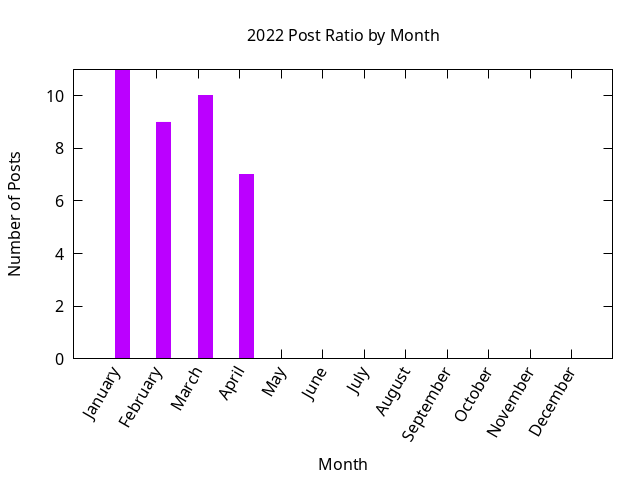
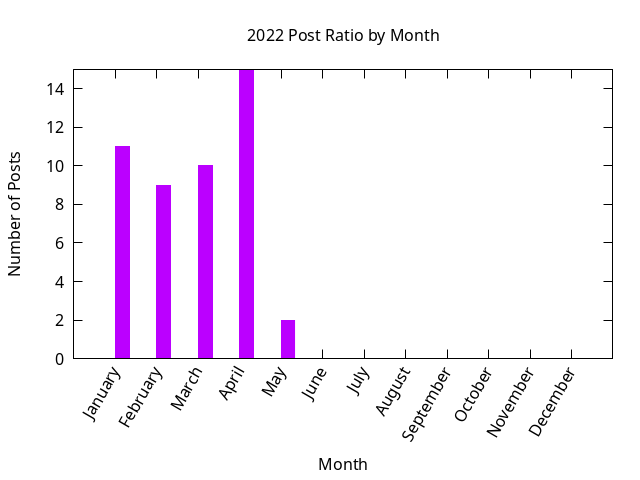
Stats update

diff --git a/_includes/stats/2022.md b/_includes/stats/2022.md
@@ -1,27 +1,28 @@
 <a name="2022" />
 ## 2022 (work in progress)
 
-**37 total posts** have been written on 2022.
-There have been *17 different tags* used, the most
+**47 total posts** have been written on 2022.
+There have been *18 different tags* used, the most
 popular being (sorted by number of posts):
  
-- *perlweeklychallenge* (19 posts)  
-- *raku* (18 posts)  
-- *postgresql* (9 posts)  
-- *perl* (9 posts)  
-- *planet-postgresql-org* (8 posts)  
-- *linux* (7 posts)  
-- *oracle* (2 posts)  
-- *freebsd* (2 posts)  
-- *shell* (2 posts)  
+- *perlweeklychallenge* (24 posts)  
+- *raku* (23 posts)  
+- *perl* (14 posts)  
+- *postgresql* (11 posts)  
+- *planet-postgresql-org* (10 posts)  
+- *linux* (8 posts)  
+- *oracle* (4 posts)  
+- *java* (3 posts)  
 - *pgagroal* (2 posts)  
 - *zsh* (2 posts)  
+- *shell* (2 posts)  
+- *emacs* (2 posts)  
+- *freebsd* (2 posts)  
+- *vitualbox* (1 posts)  
 - *openbsd* (1 posts)  
-- *pgmoneta* (1 posts)  
-- *java* (1 posts)  
-- *university* (1 posts)  
 - *pgbadger* (1 posts)  
-- *vitualbox* (1 posts).<br/>
+- *university* (1 posts)  
+- *pgmoneta* (1 posts).<br/>
 <br/>
 The following is the overall 2022 post ratio by month:
 <br/>
@@ -40,7 +41,7 @@ The following is the overall 2022 post ratio by tag (showing max 30 tags):
 
 <div align="right">
 <small>
-Last generated on 2022-04-12 at 12:16
+Last generated on 2022-05-09 at 12:37
 </small>
 </div>
 
